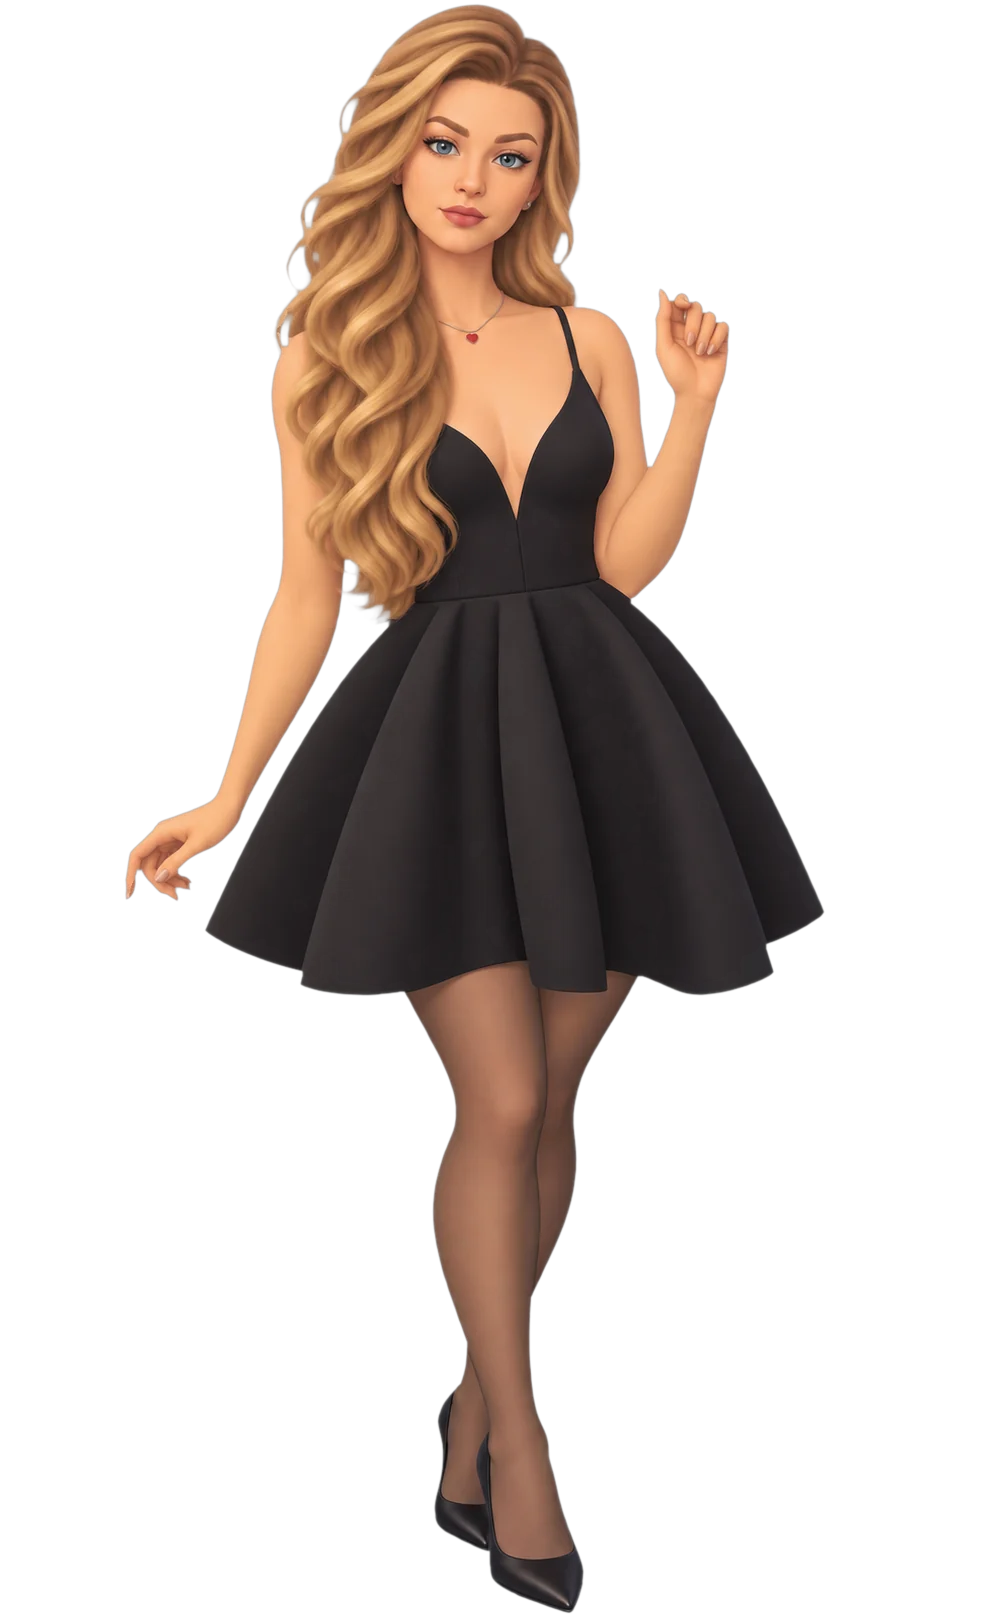
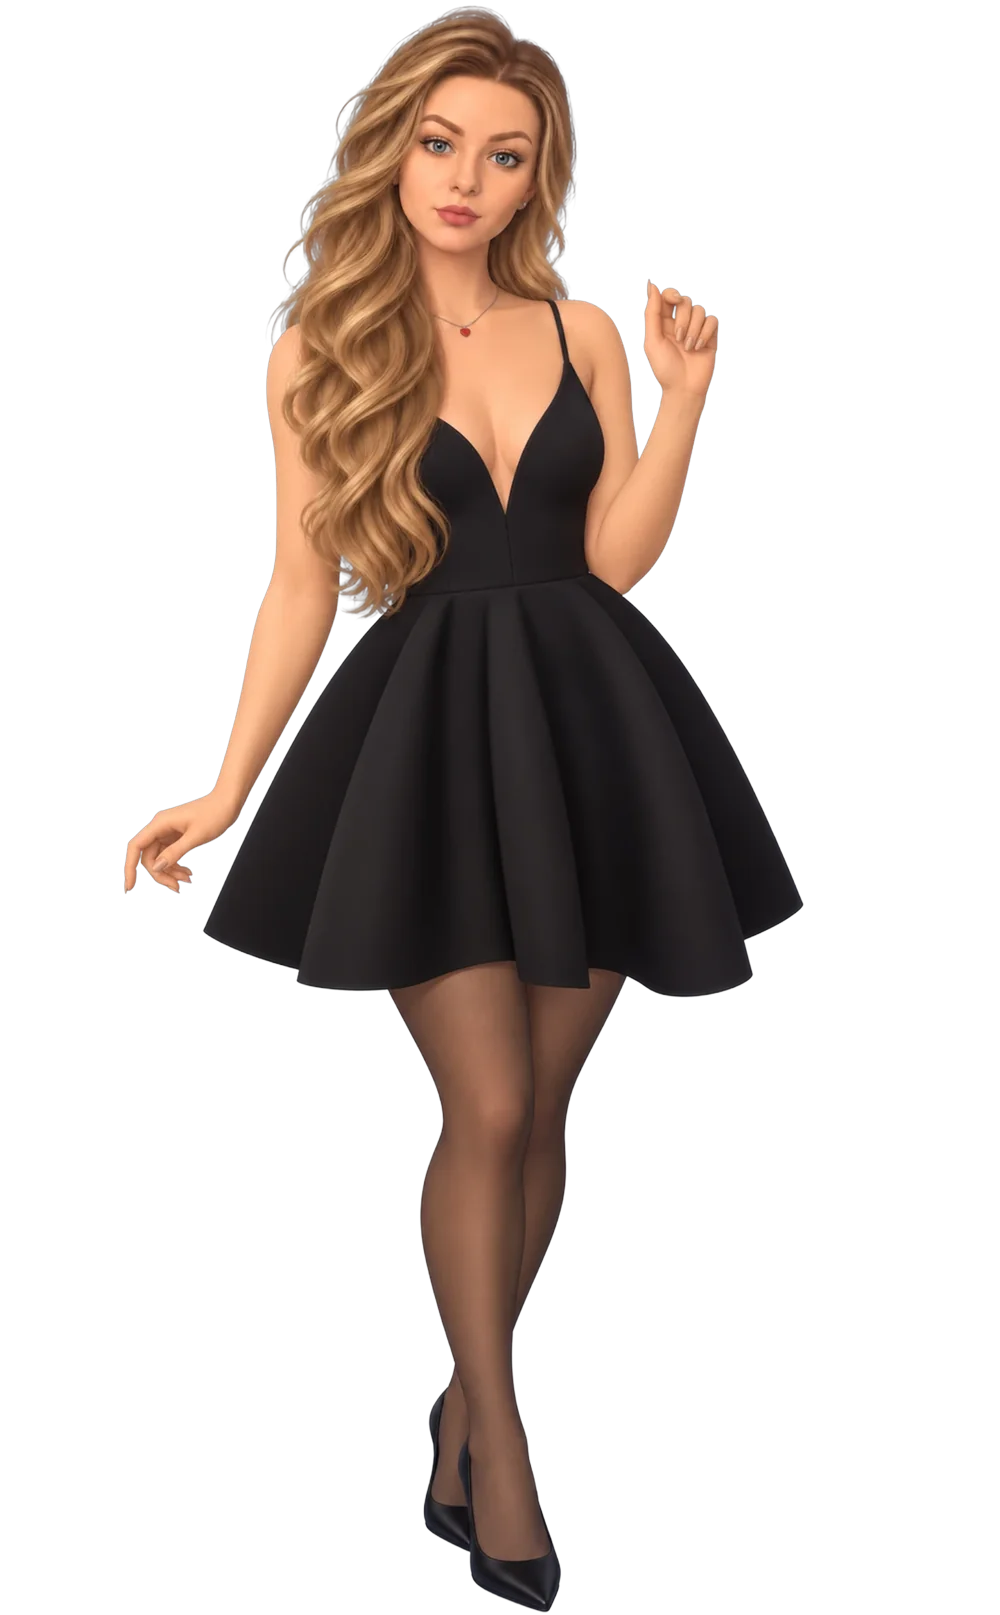
Новая картинка Марины на первом экране

diff --git a/sims-bday/index.html b/sims-bday/index.html
@@ -14,7 +14,7 @@
 <meta property="og:image:height" content="630">
 <meta name="twitter:card" content="summary_large_image">
 <meta name="theme-color" content="#5794d1">
-<link rel="preload" as="image" href="assets/marina.webp?v=3" fetchpriority="high">
+<link rel="preload" as="image" href="assets/marina.webp?v=4" fetchpriority="high">
 <link rel="preconnect" href="https://fonts.googleapis.com">
 <link rel="preconnect" href="https://fonts.gstatic.com" crossorigin>
 <link href="https://fonts.googleapis.com/css2?family=Nunito:wght@600;700;800;900&display=swap" rel="stylesheet">
@@ -54,7 +54,7 @@
   <!-- Персонаж -->
   <div class="sim" id="sim">
     <div class="sim__sparks" id="sparks" aria-hidden="true"></div>
-    <img class="sim__img" id="simImg" src="assets/marina.webp?v=3" alt="Марина — персонаж в стиле The Sims в чёрном платье" width="1000" height="1615" fetchpriority="high">
+    <img class="sim__img" id="simImg" src="assets/marina.webp?v=4" alt="Марина — персонаж в стиле The Sims в чёрном платье" width="1000" height="1615" fetchpriority="high">
   </div>
 
   <!-- Левая панель: имя + рубежи -->
